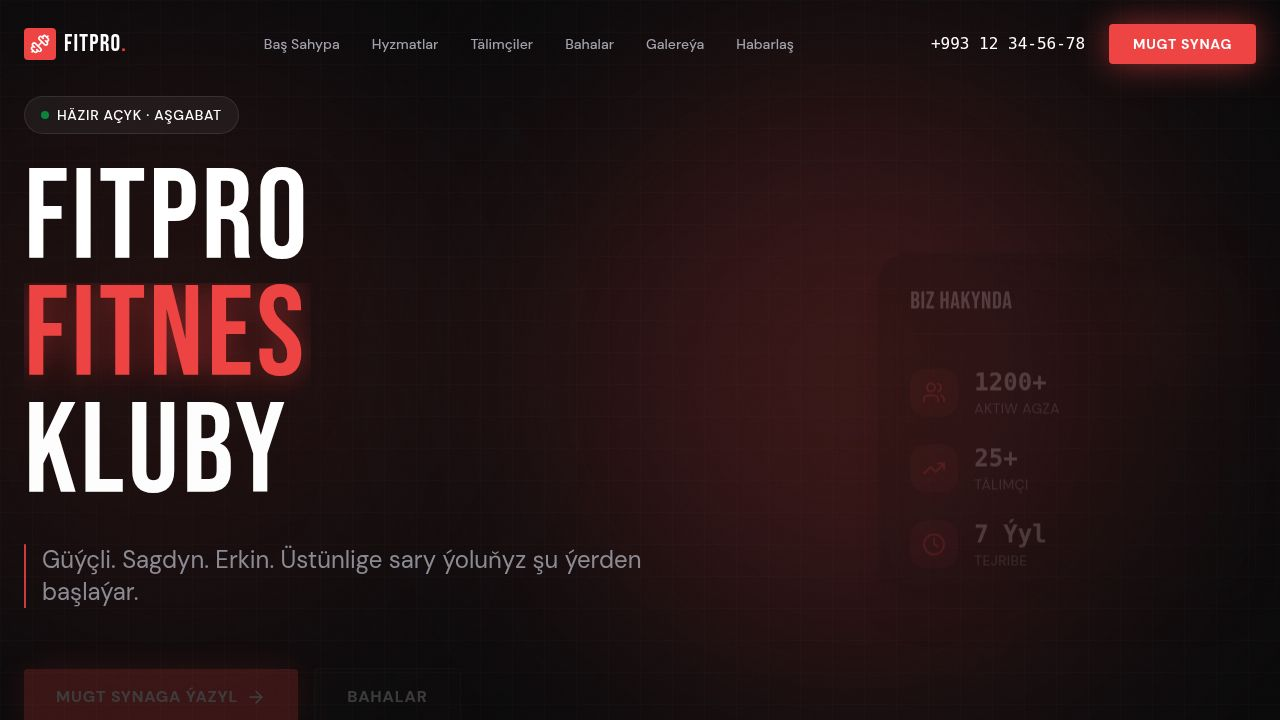
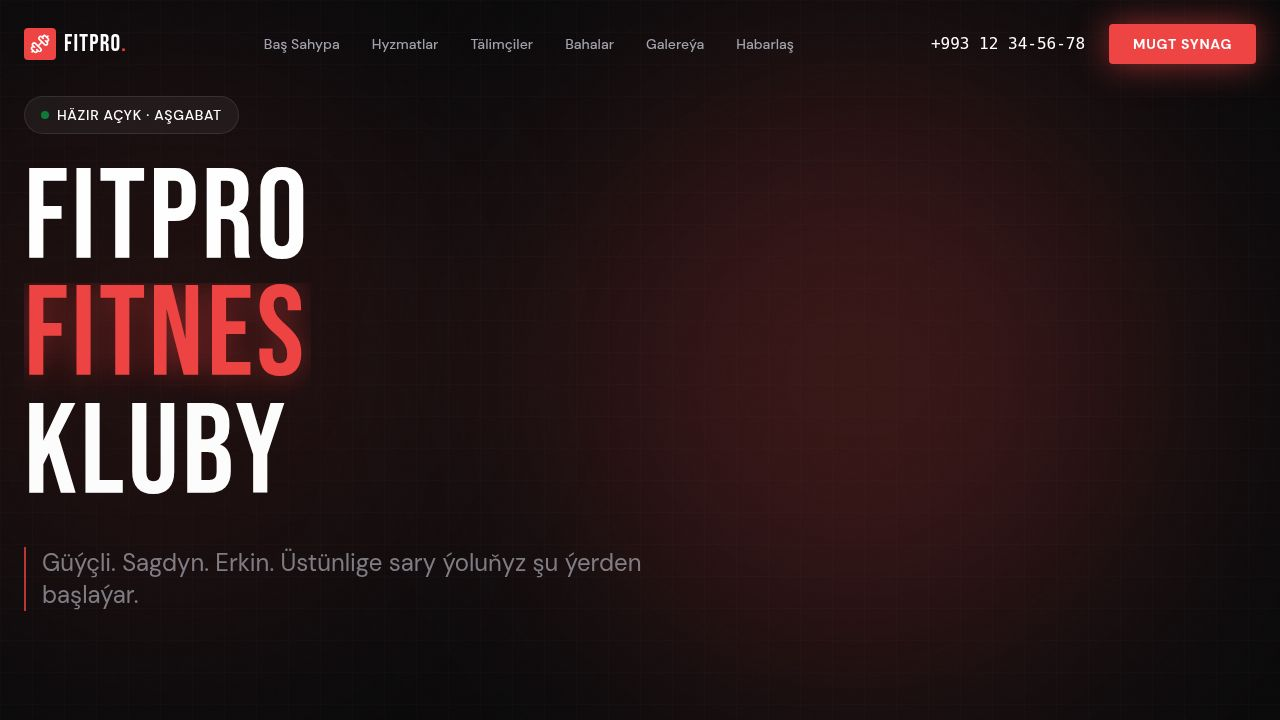
Fix animations that appear and disappear too quickly
Update scroll reveal hook to remove `.reveal` class and clear GSAP properties on animation complete. Adjust hero section animations to use `fromTo` and set initial opacity to 0.

Replit-Commit-Author: Agent
Replit-Commit-Session-Id: 7d0d30d3-d549-4567-9b8e-bb016f461ff0
Replit-Commit-Checkpoint-Type: full_checkpoint
Replit-Commit-Event-Id: f3ad560d-eced-4d60-b853-8729aacee085
Replit-Commit-Screenshot-Url: https://storage.googleapis.com/screenshot-production-us-central1/48596b39-5d61-4a63-8d6b-8a2c17e7350d/7d0d30d3-d549-4567-9b8e-bb016f461ff0/UgJDF5R
Replit-Helium-Checkpoint-Created: true

diff --git a/artifacts/fitness-demo/src/components/hero-stats.tsx b/artifacts/fitness-demo/src/components/hero-stats.tsx
@@ -47,12 +47,31 @@ function Counter({ target, suffix = "" }: { target: number; suffix?: string }) {
 export function Hero({ club }: { club: FitnessClub }) {
   useEffect(() => {
     const tl = gsap.timeline({ defaults: { ease: "power3.out" } });
-    
-    tl.from('.hero-badge', { x: -40, opacity: 0, duration: 0.6, delay: 0.2 })
-      .from('.hero-title-word', { y: 100, opacity: 0, stagger: 0.1, duration: 0.8, ease: "power4.out" }, '-=0.4')
-      .from('.hero-sub', { y: 30, opacity: 0, duration: 0.6 }, '-=0.5')
-      .from('.hero-buttons', { y: 30, opacity: 0, duration: 0.6 }, '-=0.4')
-      .from('.hero-stats-card', { x: 100, opacity: 0, duration: 0.8, ease: "back.out(1.5)" }, '-=0.6');
+
+    tl.fromTo('.hero-badge',
+        { x: -40, opacity: 0 },
+        { x: 0, opacity: 1, duration: 0.6, delay: 0.2 }
+      )
+      .fromTo('.hero-title-word',
+        { y: 100, opacity: 0 },
+        { y: 0, opacity: 1, stagger: 0.1, duration: 0.8, ease: "power4.out" },
+        '-=0.4'
+      )
+      .fromTo('.hero-sub',
+        { y: 30, opacity: 0 },
+        { y: 0, opacity: 1, duration: 0.6 },
+        '-=0.5'
+      )
+      .fromTo('.hero-buttons',
+        { y: 30, opacity: 0 },
+        { y: 0, opacity: 1, duration: 0.6 },
+        '-=0.4'
+      )
+      .fromTo('.hero-stats-card',
+        { x: 100, opacity: 0 },
+        { x: 0, opacity: 1, duration: 0.8, ease: "back.out(1.5)" },
+        '-=0.6'
+      );
   }, []);
 
   const currentYear = new Date().getFullYear();
@@ -72,22 +91,22 @@ export function Hero({ club }: { club: FitnessClub }) {
         <div className="grid grid-cols-1 lg:grid-cols-12 gap-12 items-center">
           
           <div className="lg:col-span-8 flex flex-col items-start text-left">
-            <div className="hero-badge inline-flex items-center gap-2 px-4 py-2 rounded-full bg-white/5 border border-white/10 backdrop-blur-sm mb-8">
+            <div className="hero-badge inline-flex items-center gap-2 px-4 py-2 rounded-full bg-white/5 border border-white/10 backdrop-blur-sm mb-8" style={{ opacity: 0 }}>
               <span className="w-2 h-2 rounded-full bg-green-500 animate-pulse" />
               <span className="text-sm font-medium text-white tracking-wider">HÄZIR AÇYK · {club.city.toUpperCase()}</span>
             </div>
 
             <h1 className="font-display text-[clamp(3.5rem,10vw,8rem)] leading-[0.85] text-white uppercase mb-6 drop-shadow-2xl">
-              <div className="overflow-hidden pb-2"><span className="hero-title-word inline-block">{club.name}</span></div>
-              <div className="overflow-hidden pb-2 text-primary text-shadow-glow"><span className="hero-title-word inline-block">FITNES</span></div>
-              <div className="overflow-hidden pb-2"><span className="hero-title-word inline-block">KLUBY</span></div>
+              <div className="overflow-hidden pb-2"><span className="hero-title-word inline-block" style={{ opacity: 0 }}>{club.name}</span></div>
+              <div className="overflow-hidden pb-2 text-primary text-shadow-glow"><span className="hero-title-word inline-block" style={{ opacity: 0 }}>FITNES</span></div>
+              <div className="overflow-hidden pb-2"><span className="hero-title-word inline-block" style={{ opacity: 0 }}>KLUBY</span></div>
             </h1>
 
-            <p className="hero-sub text-xl md:text-2xl text-muted-foreground max-w-2xl mb-10 border-l-2 border-primary pl-4">
+            <p className="hero-sub text-xl md:text-2xl text-muted-foreground max-w-2xl mb-10 border-l-2 border-primary pl-4" style={{ opacity: 0 }}>
               {club.tag} Üstünlige sary ýoluňyz şu ýerden başlaýar.
             </p>
 
-            <div className="hero-buttons flex flex-wrap items-center gap-4 w-full sm:w-auto">
+            <div className="hero-buttons flex flex-wrap items-center gap-4 w-full sm:w-auto" style={{ opacity: 0 }}>
               <a href="#pricing" className="w-full sm:w-auto px-8 py-4 bg-primary text-white font-bold uppercase tracking-wider rounded flex items-center justify-center gap-2 hover:bg-primary/90 transition-all hover:gap-4 group animate-glow">
                 Mugt Synaga Ýazyl
                 <ArrowRight size={20} className="transition-transform" />
@@ -97,7 +116,7 @@ export function Hero({ club }: { club: FitnessClub }) {
               </a>
             </div>
 
-            <div className="hero-buttons mt-10 flex items-center gap-4 text-sm text-muted-foreground">
+            <div className="hero-buttons mt-10 flex items-center gap-4 text-sm text-muted-foreground" style={{ opacity: 0 }}>
               <div className="flex gap-1 text-yellow-500">
                 {[1,2,3,4,5].map(i => <Star key={i} size={16} fill="currentColor" />)}
               </div>
@@ -109,7 +128,7 @@ export function Hero({ club }: { club: FitnessClub }) {
           </div>
 
           <div className="lg:col-span-4 hidden lg:block">
-            <div className="hero-stats-card animate-float glass-panel rounded-[2rem] p-8 relative">
+            <div className="hero-stats-card animate-float glass-panel rounded-[2rem] p-8 relative" style={{ opacity: 0 }}>
               <div className="absolute top-0 right-0 w-32 h-32 bg-primary/20 blur-[40px] rounded-full pointer-events-none" />
               
               <h3 className="font-display text-2xl text-white mb-8 border-b border-white/10 pb-4">Biz Hakynda</h3>

diff --git a/artifacts/fitness-demo/src/hooks/use-scroll-reveal.ts b/artifacts/fitness-demo/src/hooks/use-scroll-reveal.ts
@@ -7,22 +7,36 @@ export function useScrollReveal() {
       (entries) => {
         entries.forEach((entry) => {
           if (entry.isIntersecting) {
-            gsap.to(entry.target, {
+            const el = entry.target as HTMLElement;
+
+            gsap.to(el, {
               y: 0,
               opacity: 1,
-              duration: 0.8,
+              duration: 0.75,
               ease: "power3.out",
-              clearProps: "all" // Clears GSAP inline styles after to prevent conflict
+              onComplete: () => {
+                // Remove the .reveal class so CSS no longer forces opacity:0
+                el.classList.remove("reveal");
+                // Now safe to clear GSAP inline styles — element keeps its natural CSS
+                gsap.set(el, { clearProps: "all" });
+              },
             });
-            observer.unobserve(entry.target);
+
+            observer.unobserve(el);
           }
         });
       },
-      { threshold: 0.15, rootMargin: "0px 0px -50px 0px" }
+      { threshold: 0.1, rootMargin: "0px 0px -40px 0px" }
     );
 
-    document.querySelectorAll(".reveal").forEach((el) => observer.observe(el));
+    // Small delay so DOM is fully painted before observing
+    const timer = setTimeout(() => {
+      document.querySelectorAll(".reveal").forEach((el) => observer.observe(el));
+    }, 100);
 
-    return () => observer.disconnect();
+    return () => {
+      clearTimeout(timer);
+      observer.disconnect();
+    };
   }, []);
 }
